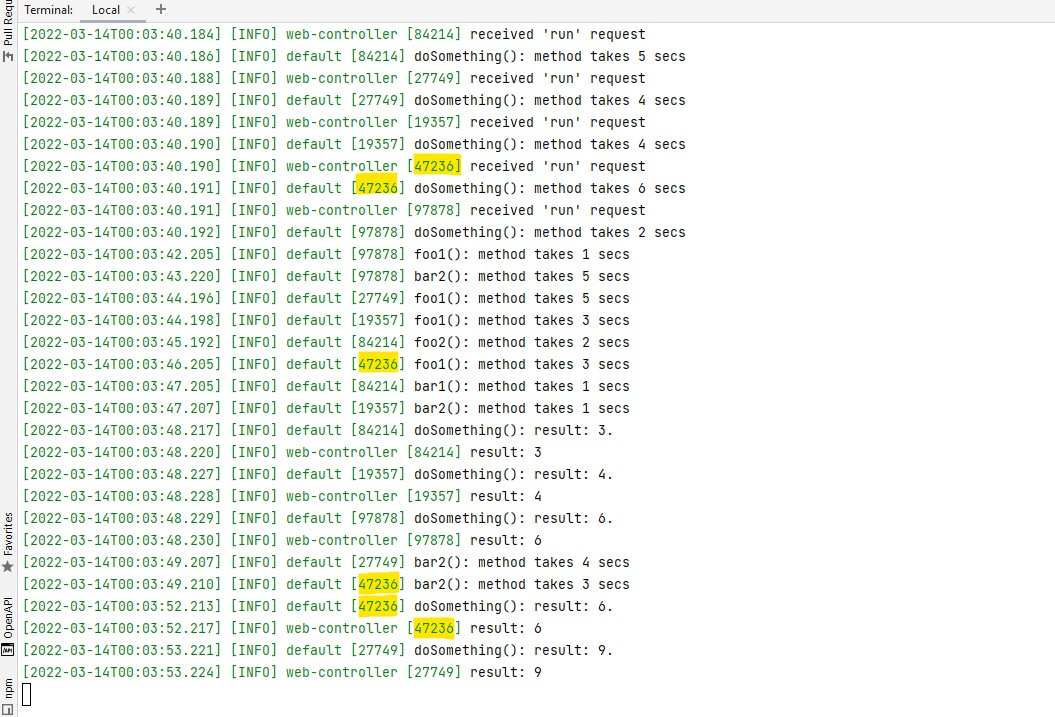
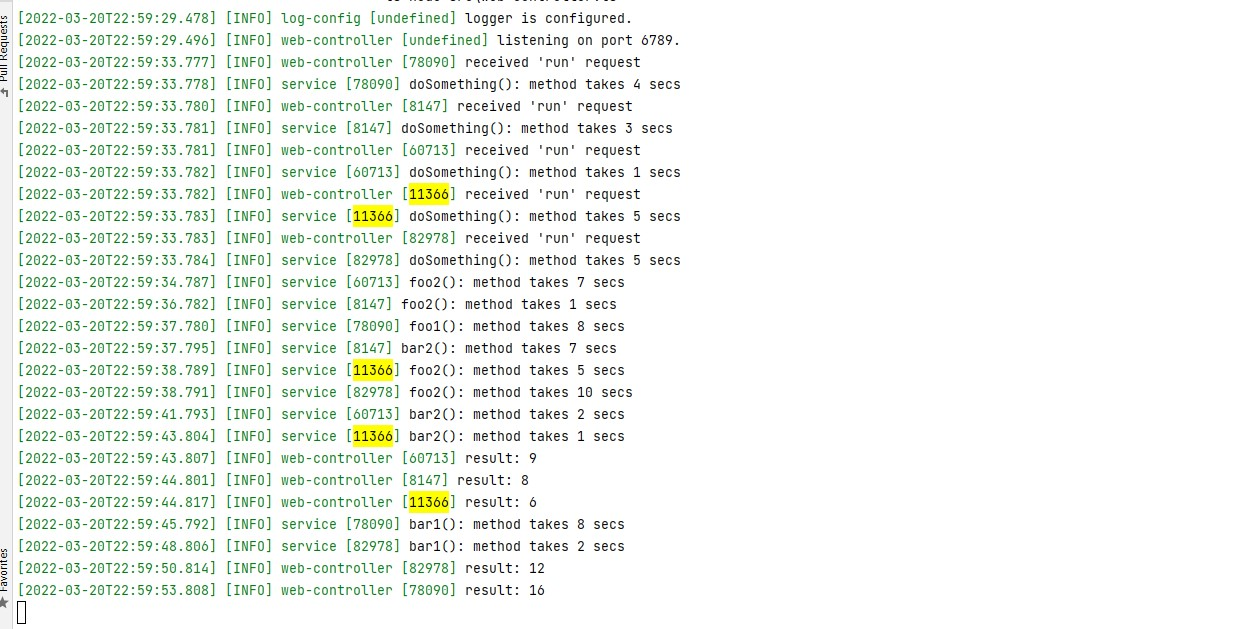
readme + image with correlator

Changed region(s): [[0.0, 0.0, 0.6673, 1.0]]

diff --git a/README.md b/README.md
@@ -29,6 +29,8 @@ For example, if we call 5 - only 5 - parallel calls to `/run`, the result would 
 
 this is impossible to debug or to analyze issues because we cannot tell which log comes from which run.
 
+## requirements
+
 **The challenge consists of 2 parts**:
 * First, indicating all logs from the same request with a unique correlator.
 * Second, adding this correlator to every log line without refactoring all the code.
@@ -40,7 +42,7 @@ this is impossible to debug or to analyze issues because we cannot tell which lo
 First things first: we will handle the correlator.
 
 In Java, for example, each call to the web-server is handled by a thread, and unless a new thread is created on purpose, the
-developer can always query for the thread-id, or store some data on the [ThreadLocal](https://docs.oracle.com/javase/7/docs/api/java/lang/ThreadLocal.html).
+developer can always query the thread-id by `Thread.currentThread()`, or store some data on the [ThreadLocal](https://docs.oracle.com/javase/7/docs/api/java/lang/ThreadLocal.html).
 Need to note that this pattern is relevant [not only for java](https://en.wikipedia.org/wiki/Thread-local_storage).
 Alas, node.js works differently and except the event-loop, all logic happens in the same worker thread.
 
@@ -75,8 +77,8 @@ The way to integrate this into my express server is this:
         } catch (e) ...
     });
 
-As we can see, the code remained as is except the fact that we generate a correlation-id (there are many other way to do this
-but to simplify the example I have used this), and then call `correlator.withId()` and let the original code run within the 
+As we can see, the code remained as is except the fact that we generate a correlation-id (there are many other ways to do this
+but I wanted to simplify the example), and then call `correlator.withId()` and let the original code run within the 
 correlation scope. correlation-id docs:
 
 ![docs-withId](docs-withId.JPG)
@@ -95,30 +97,36 @@ into:
 
 This is a big big headache.
 
-Instead, we need to understand log4js a bit deeper. one of the pillars of log4js is [**appenders**](https://log4js-node.github.io/log4js-node/appenders.html). When the logger is configured,
+Instead, we need to understand log4js a bit better. One of the pillars of log4js is [**appenders**](https://log4js-node.github.io/log4js-node/appenders.html). 
+When the logger is configured,
 the appender is set. Appender can be console, file, etc. Full explanation of appenders, with list of built-in appenders and
 explanation on custom appenders can be found in the [docs](https://log4js-node.github.io/log4js-node/appenders.html). 
 
-But another pillar of log4js is [**layouts**]():
+Another pillar of log4js is [**layouts**](https://log4js-node.github.io/log4js-node/layouts.html):
 
 >Layouts are functions used by appenders to format log events for output. They take a log event as an argument and return 
 a string. Log4js comes with several appenders built-in, and provides ways to create your own if these are not suitable.
+
+Each layout has a type. By default, it is `basic` and "output the timestamp, level, category, followed by the formatted log event data". 
 
 In other words, the following log line:
 
     [2022-03-15T20:55:30.360] [INFO] [category-name] some message here
 
 is built by a layout function that gets the message - in this case 'some message here' - as a string argument, and return the following
-pattern: `%[[%d] [%p] %c%] %m%n`. See the [docs]() for explanation of what is d, p, c and so on. 
+**pattern**: `%[[%d] [%p] %c%] %m%n`. See the layout docs for explanation of pattern format and what is d, p, c and so on. 
 
-The fact that you can build your log lines any way you want is cool. For example, you can place the log level `%p` in any part
-of the log line, wrap it with brackets, or omit it at all. But one of the coolest thing, and very relevant to 
-our use case is `%x`. It lets you "add dynamic tokens to your log. Tokens are specified in the tokens parameter."
+Fortunately, log4js lets you *modify* the pattern by using `type=pattern`.
+Thus, you can build your log lines any way you want. For example, you can place the log level `%p` in any part
+of the log line, wrap it with brackets, or omit it at all. 
+
+Furthermore, you can add user-defined tokens to be used in the 
+pattern by using `%x`. It lets you "add dynamic tokens to your log. Tokens are specified in the tokens parameter."
 
 >User-defined tokens can be either a string or a function. Functions will be passed the log event, and should return a string.
 
 Voilà! This is exactly what we need! Remember the `correlator.getId()`? That would be our token!
-Thus, we can configure our layout to be:
+Thus, we will configure our layout to be:
 
 ```
 {
@@ -135,5 +143,7 @@ Thus, we can configure our layout to be:
 If we configure our logger, or more precisely our appender, to contain the above layout, each log line will contain the 
 relevant correlator without changing or breaking any API. No need to pass it to the logger, no need to wrap the logger, because 
 it cannot be more elegant than this: we have a hook in the logger so it - the logger - can read the correlator.
+
+Accomplishing this, we will invoke our application again and see the results of 5 parallel calls:
 
 ![with-correlator](logs-with-correlator.JPG)
